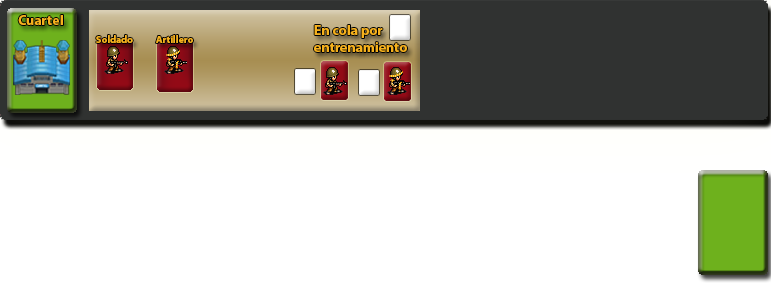
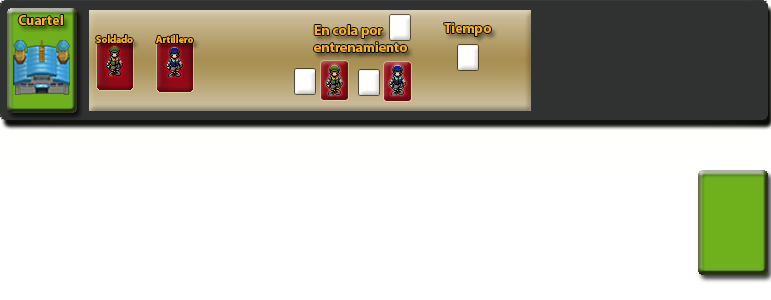
Fondo del entrenamiento en el cuartel

Changed region(s): [[0.4981, 0.03, 0.716, 0.39], [0.1245, 0.15, 0.249, 0.27], [0.4047, 0.21, 0.4669, 0.33]]

diff --git a/src/DomiNations/Escena.java b/src/DomiNations/Escena.java
@@ -441,7 +441,10 @@ public class Escena extends JPanel implements MouseListener,MouseMotionListener{
         g.drawString( ""+cuartel.soldados_en_cola,395,499);
         g.drawString( ""+cuartel.nro_soldado1_cola,300,553);
         g.drawString( ""+cuartel.nro_soldado2_cola,364,553);
-        g.drawString( ""+cuartel.tiempo_entrenamiento,400,553);        
+        if(cuartel.tiempo_entrenamiento<10)
+            g.drawString( ""+cuartel.tiempo_entrenamiento,465,527);    
+        else
+            g.drawString( ""+cuartel.tiempo_entrenamiento,461,527);   
     }
     public Objetos_Graficos Tipo_Item(String nombre){
         String clase= nombre.substring(0, nombre.length()-1);
